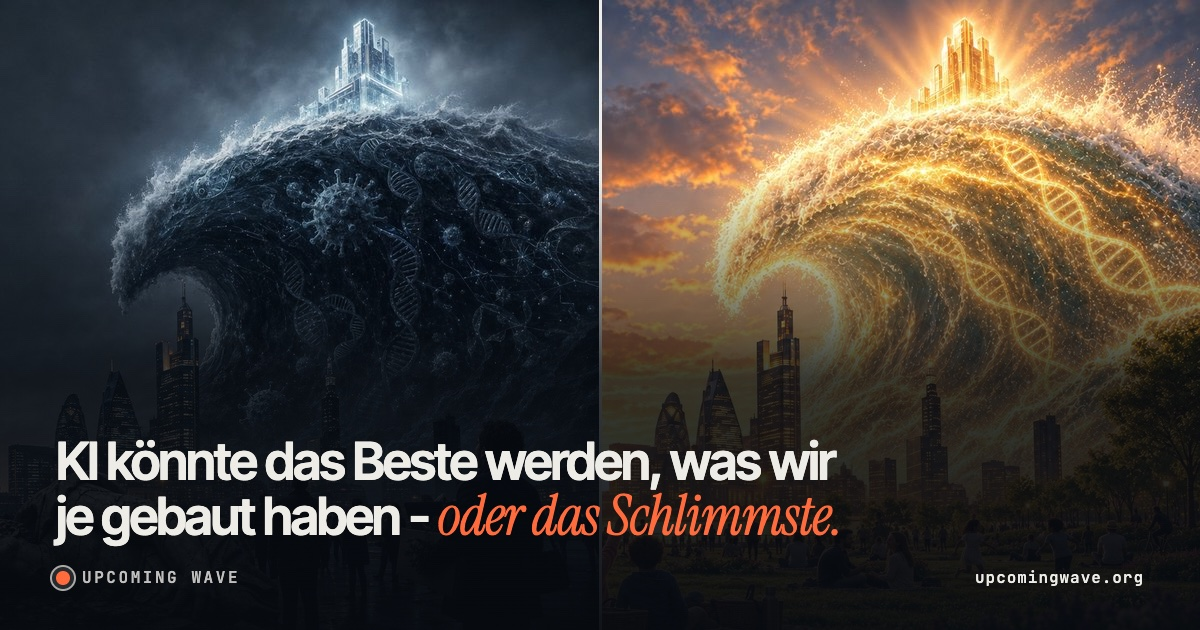
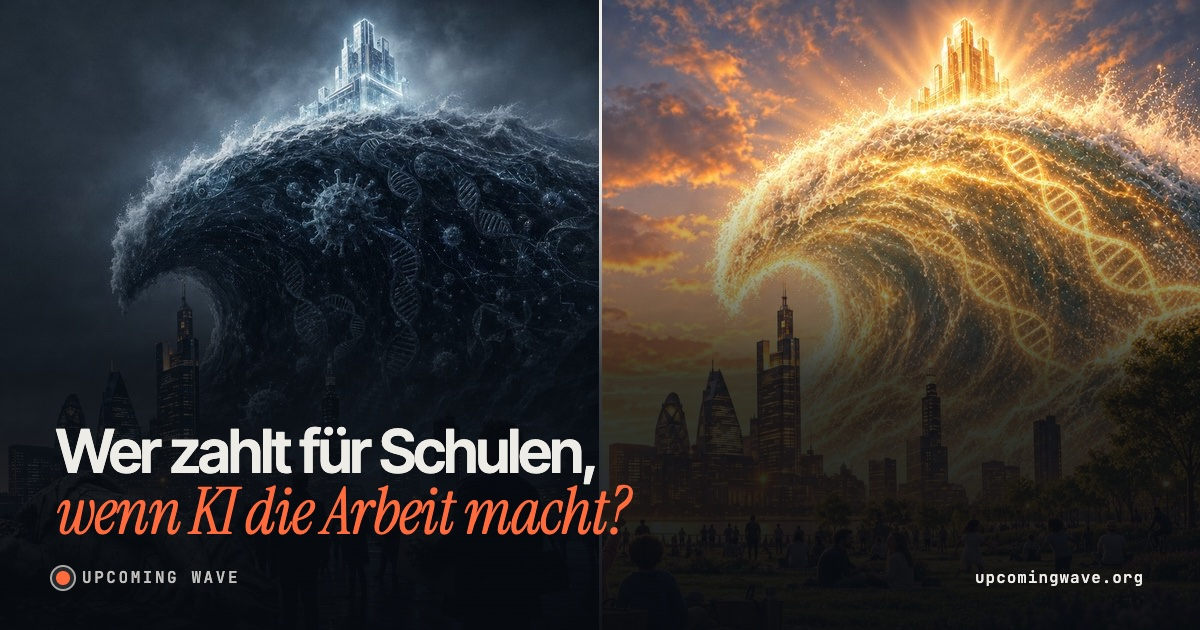
fix(mobile): hero photo fills exactly what the copy leaves free in every language; new link cards
- mobile hero is a two-row grid, so longer translations shrink the photo instead of overflowing
- Japanese headings/eyebrows wrap instead of running past the edge
- link-preview cards: 'Who pays for schools when AI does the work?' in all 7 languages, accent on its own line

Changed region(s): [[0.0308, 0.6635, 0.7092, 0.8746]]

diff --git a/src/styles/responsive.css b/src/styles/responsive.css
@@ -32,11 +32,12 @@
   .uw-bars li { grid-template-columns: 1fr; gap: 8px; }
   .uw-loop-ring { display: none; }
   /* Hero on phones: the two-futures photo is a band on top, the copy sits below it on ink. */
-  /* The photo takes whatever the copy leaves free: ~54% on a 390x844 phone, more on taller screens, never under 300px. */
-  .uw-hero { --hero-band: max(300px, min(60svh, calc(100svh - 390px))); display: block; min-height: 100svh; }
-  .uw-compare, .uw-hero-shade { bottom: auto; height: var(--hero-band); }
+  /* A grid: row 1 is the photo band, row 2 the copy. The band takes whatever the copy leaves free on a
+     full screen, in every language (absolutely positioned children use their grid area as the box). */
+  .uw-hero { display: grid; grid-template-rows: minmax(240px, 1fr) auto; grid-template-columns: minmax(0, 1fr); min-height: 100svh; }
+  .uw-compare, .uw-hero-shade, .uw-compare-divider { grid-row: 1 / 2; grid-column: 1 / 2; top: 0; bottom: 0; height: auto; }
+  .uw-compare, .uw-hero-shade { left: 0; right: 0; }
   .uw-hero-shade { background: linear-gradient(0deg, var(--ink) 0%, rgba(7, 11, 16, 0) 38%); }
-  .uw-compare-divider { bottom: auto; height: var(--hero-band); }
   .uw-compare-divider::before { background: linear-gradient(180deg, transparent, rgba(238, 236, 230, 0.85) 20%, rgba(238, 236, 230, 0.85) 70%, transparent); }
   .uw-compare-handle { top: 52%; width: 46px; height: 46px; }
   /* Long translations wrap onto two lines instead of running past the screen edge (the handle rests at 50%). */
@@ -45,8 +46,8 @@
   .uw-compare-label.is-dark { right: 30px; }
   .uw-compare-label.is-hope { left: 30px; }
   /* At least one full screen: the copy fills the space under the photo and the button sits near the bottom. */
-  .uw-hero-copy { display: flex; flex-direction: column; align-items: flex-start; gap: 22px; max-width: none; min-height: 100svh; padding: calc(var(--hero-band) + 6px) var(--gutter) max(36px, env(safe-area-inset-bottom)); }
-  .uw-hero-actions { margin-top: auto; padding-top: 10px; }
+  .uw-hero-copy { grid-row: 2; grid-column: 1; display: flex; flex-direction: column; align-items: flex-start; gap: 22px; max-width: none; padding: 6px var(--gutter) max(36px, env(safe-area-inset-bottom)); }
+  .uw-hero-actions { padding-top: 10px; }
   .uw-hero-title { font-size: clamp(2.2rem, 9.8vw, 3.4rem); }
   .uw-hero-subtitle { margin-top: -6px; font-size: 1.05rem; }
   /* First screen on phones: headline, one line, the ask, and one button. The threats are covered in the chapters. */

diff --git a/src/styles/base.css b/src/styles/base.css
@@ -48,5 +48,6 @@ section[id] { scroll-margin-top: 0; }
 :lang(ja) :is(h1, h2, h3, .uw-title, .uw-finale-line) { word-break: auto-phrase; }
 /* Japanese has no italics: the accent is carried by colour alone, in the same typeface. */
 :lang(ja) :is(.uw-title em, .uw-finale-line, .uw-voice-quotes blockquote) { font-family: var(--font-sans), sans-serif; font-style: normal; letter-spacing: 0; }
-:lang(ja) .uw-title { letter-spacing: -0.01em; }
+:lang(ja) .uw-title { letter-spacing: -0.01em; overflow-wrap: anywhere; }
+:lang(ja) .uw-eyebrow { min-width: 0; letter-spacing: 0.08em; overflow-wrap: anywhere; }
 @media (max-width: 820px) { :lang(ja) .uw-hero-title { font-size: clamp(1.9rem, 8.2vw, 2.8rem); } }

diff --git a/scripts/og-cards.py b/scripts/og-cards.py
@@ -56,7 +56,7 @@ html,body{{margin:0;width:1200px;height:630px;overflow:hidden;background:#070b10
 .og::after{{content:'';position:absolute;inset:0;background:linear-gradient(180deg,rgba(7,11,16,0) 28%,rgba(7,11,16,.8) 60%,rgba(7,11,16,.96) 100%)}}
 .copy{{position:absolute;z-index:1;left:56px;right:56px;bottom:44px;display:grid;gap:26px}}
 h1{{margin:0;max-width:1040px;color:#eeece6;font:600 {size}px/1.04 {sans};letter-spacing:{'0' if ja else '-0.04em'};text-wrap:balance}}
-h1 em{{color:#ff6b3d;font:{'500' if ja else 'italic 400'} 1.08em/0.95 {serif};letter-spacing:{'0' if ja else '-0.02em'}}}
+h1 em{{display:block;color:#ff6b3d;font:{'500' if ja else 'italic 400'} 1.08em/0.95 {serif};letter-spacing:{'0' if ja else '-0.02em'}}}
 .row{{display:flex;justify-content:space-between;align-items:center;color:rgba(238,236,230,.8);font:500 16px/1 'JetBrains Mono',monospace;letter-spacing:.16em;text-transform:uppercase}}
 .brand{{display:flex;align-items:center;gap:12px}}
 .brand i{{width:14px;height:14px;border-radius:50%;background:#ff6b3d;box-shadow:0 0 0 4px rgba(7,11,16,.8),0 0 0 6px rgba(238,236,230,.7)}}
